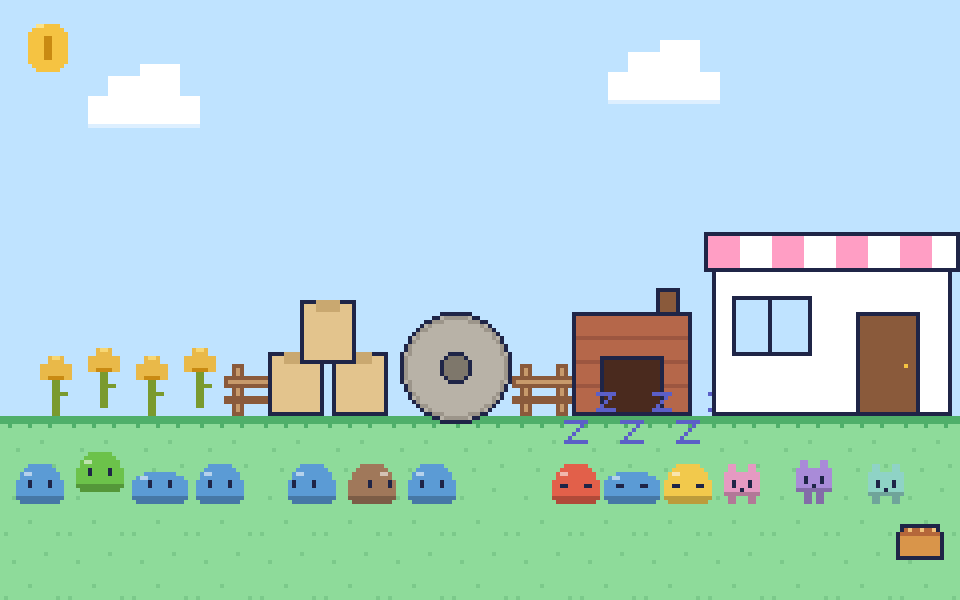
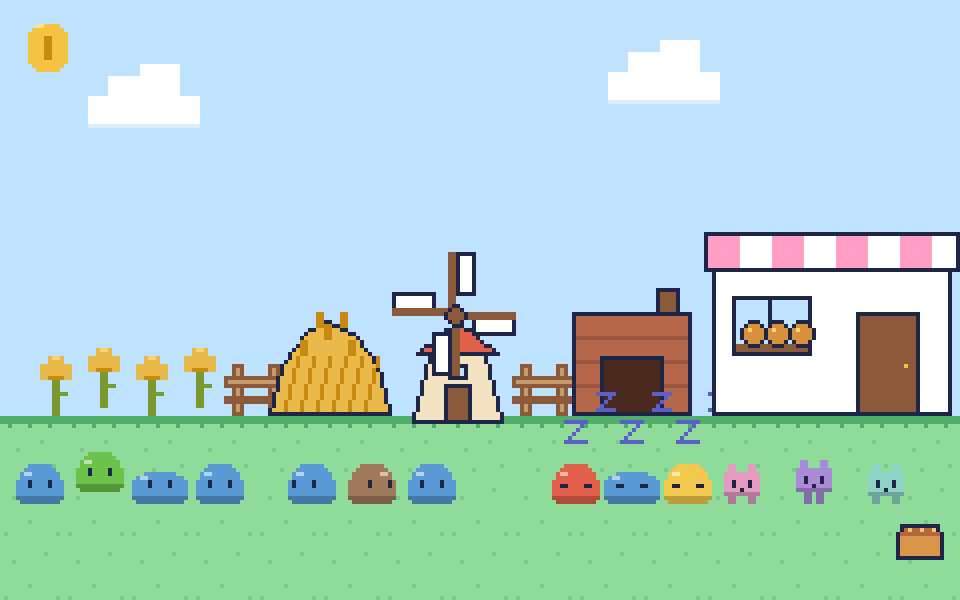
Windmill, wheat heap, flour sack and shop bread sprites; 5x2 slimes per zone; integer-scale responsive layout; bigger fonts
Claude-Session: https://claude.ai/code/session_01WfTTNQnN7G532o3jo6Gttq

Changed region(s): [[0.2812, 0.42, 0.5625, 0.72], [0.75, 0.51, 0.875, 0.6]]

diff --git a/index.html b/index.html
@@ -13,7 +13,7 @@
     --sky:#BFE3FF; --grass:#8EDB9A; --grass-line:#4FAF6A; --bar:#6FA8FF; --warn:#F08A24; --warn-line:#D9661A;
   }
   * { box-sizing:border-box; }
-  body { margin:0; background:var(--bg); color:var(--ink); font:16px/1.2 m5x7,monospace; image-rendering:pixelated; }
+  body { margin:0; background:var(--bg); color:var(--ink); font:32px/1.1 m5x7,monospace; image-rendering:pixelated; }
   img, .spr { image-rendering:pixelated; }
   h1, h2, .title { font-family:kenpixel,m5x7,monospace; margin:0; }
   .num { font-family:monogram,monospace; }
@@ -21,79 +21,88 @@
   .box { background:var(--panel); border:4px solid var(--ink); box-shadow:4px 4px 0 var(--ink); }
 
   /* buttons: primary = pink, 3px frame, press = shadow gone + 4px down */
-  button { font:inherit; font-size:16px; color:var(--ink); background:var(--bg); border:3px solid var(--ink); min-height:44px; padding:6px 14px; cursor:pointer; }
+  button { font:inherit; font-size:32px; color:var(--ink); background:var(--bg); border:3px solid var(--ink); min-height:48px; padding:4px 14px; cursor:pointer; }
   button.primary { background:var(--primary); border-width:4px; box-shadow:4px 4px 0 var(--ink); font-size:32px; }
   button.primary:active:not(:disabled) { box-shadow:0 0 0 var(--ink); transform:translate(4px,4px); }
   button:disabled { opacity:.45; cursor:not-allowed; }
 
   header { display:flex; align-items:center; flex-wrap:wrap; gap:16px 24px; padding:10px 18px; }
-  header h1 { font-size:32px; letter-spacing:1px; }
+  header h1 { font-size:40px; letter-spacing:1px; }
   .coin { display:flex; align-items:center; gap:8px; }
-  #coins { font-size:32px; }
-  #income { background:var(--income); border:3px solid var(--ink); padding:4px 12px; font-size:16px; }
+  #coins { font-size:48px; }
+  #income { background:var(--income); border:3px solid var(--ink); padding:2px 12px; font-size:32px; }
   .spacer { margin-left:auto; display:flex; gap:10px; }
 
-  /* sprites: slimes.png 144x80 (9x5 of 16px), shown x3; items/props/customers/shop scaled by integers too */
+  /* pixel art is sized in --u (an integer number of px per art pixel): 3 on desktop, 2 on small screens; never fractional */
+  :root { --u:3px; --i:2px; }
+  @media (max-width:1099px) { :root { --u:2px; } }
   .sprite { background-repeat:no-repeat; flex:none; }
+  .slime { --w:calc(16*var(--u)); width:var(--w); height:var(--w); margin:calc(-3*var(--u)) 0; background-image:url(/original/slimes.png); background-size:calc(144*var(--u)) calc(80*var(--u)); background-position-y:calc(var(--row,0) * -16 * var(--u)); }
   .slime, .sleeper { display:inline-block; }
-  .slime { width:48px; height:48px; background-image:url(/original/slimes.png); background-size:432px 240px; background-position-y:calc(var(--row,0) * -48px); }
   .a-idle { animation:idle 1s step-end infinite; }
   .a-hop { animation:hop .5s step-end infinite; }
   .a-sleep { animation:sleep 1.33s step-end infinite; }
   .a-spin { animation:spin .67s step-end infinite; }
-  @keyframes idle { 0%{background-position-x:0} 75%{background-position-x:-48px} }
-  @keyframes hop { 0%{background-position-x:-96px} 20%{background-position-x:-144px} 40%{background-position-x:-192px} 60%{background-position-x:-144px} 80%{background-position-x:0} }
-  @keyframes sleep { 0%{background-position-x:-240px} 50%{background-position-x:-288px} }
-  @keyframes spin { 0%{background-position-x:-336px} 25%{background-position-x:0} 50%{background-position-x:-384px} 75%{background-position-x:0} }
-  .item { width:32px; height:32px; background-image:url(/original/items.png); background-size:160px 32px; }
-  .prop { width:96px; height:96px; background-image:url(/original/props.png); background-size:480px 96px; }
+  @keyframes idle { 0%{background-position-x:0} 75%{background-position-x:calc(-16*var(--u))} }
+  @keyframes hop { 0%{background-position-x:calc(-32*var(--u))} 20%{background-position-x:calc(-48*var(--u))} 40%{background-position-x:calc(-64*var(--u))} 60%{background-position-x:calc(-48*var(--u))} 80%{background-position-x:0} }
+  @keyframes sleep { 0%{background-position-x:calc(-80*var(--u))} 50%{background-position-x:calc(-96*var(--u))} }
+  @keyframes spin { 0%{background-position-x:calc(-112*var(--u))} 25%{background-position-x:0} 50%{background-position-x:calc(-128*var(--u))} 75%{background-position-x:0} }
+  .item { width:calc(16*var(--i)); height:calc(16*var(--i)); background-image:url(/original/items.png); background-size:calc(80*var(--i)) calc(16*var(--i)); }
+  /* props.png frames (32px): 0 windmill, 1 blades+, 2 blades x, 3 oven, 4 oven lit, 5 wheat pile, 6 flour sack, 7 cloud */
+  .prop { width:calc(32*var(--u)); height:calc(32*var(--u)); background-image:url(/original/props.png); background-size:calc(256*var(--u)) calc(32*var(--u)); background-position-x:calc(var(--f) * -32 * var(--u)); }
+  #wheat-pile > .prop + .prop, #flours > .prop + .prop { margin-left:calc(-12*var(--u)); }
+  .p-windmill { --f:0; } .p-oven { --f:3; } .p-wheat { --f:5; } .p-flour { --f:6; }
+  .p-oven.baking { animation:oven 1s step-end infinite; }
+  @keyframes oven { 0%{background-position-x:calc(-96*var(--u))} 50%{background-position-x:calc(-128*var(--u))} }
 
-  #scene { position:relative; height:330px; overflow:hidden; background:var(--sky) var(--sky-tile) 0 0/32px 32px; display:grid; grid-template-columns:repeat(4,minmax(0,1fr)); }
-  #scene .ground { position:absolute; inset:auto 0 0 0; height:110px; background:var(--grass) var(--grass-tile) 0 0/32px 32px; }
-  #scene .ground::before { content:""; position:absolute; inset:0 0 auto 0; height:32px; background:var(--grass-top-tile) 0 0/32px 32px repeat-x; }
-  .cloud { position:absolute; width:64px; height:64px; background:url(/original/props.png) -256px 0/320px 64px; animation:drift 60s linear infinite; }
+  #scene { position:relative; overflow:hidden; background:var(--sky) var(--sky-tile) 0 0/calc(16*var(--u)) calc(16*var(--u)); display:grid; grid-template-columns:repeat(4,minmax(0,1fr)); }
+  @media (max-width:759px) { #scene { grid-template-columns:repeat(2,minmax(0,1fr)); } }
+  .cloud { position:absolute; width:calc(32*var(--i)); height:calc(32*var(--i)); background:url(/original/props.png) calc(-7*32*var(--i)) 0/calc(256*var(--i)) calc(32*var(--i)); animation:drift 60s linear infinite; }
   @keyframes drift { from{transform:translateX(-80px)} to{transform:translateX(1400px)} }
-  .zone { position:relative; display:flex; flex-direction:column; align-items:center; padding-top:14px; }
-  .zone + .zone::before { content:""; position:absolute; left:-16px; bottom:78px; width:32px; height:32px; background:var(--fence-tile) 0 0/32px 32px; }
-  .zone .label { background:var(--panel); border:3px solid var(--ink); padding:2px 10px; font-size:16px; font-family:kenpixel,monospace; z-index:2; }
-  .zone .actors { position:absolute; bottom:24px; display:flex; gap:0; align-items:flex-end; flex-wrap:wrap; justify-content:center; max-width:100%; z-index:1; }
-  .zone .actors .more { font:16px monogram,monospace; background:var(--panel); border:3px solid var(--ink); padding:0 6px; align-self:center; }
+  .zone { position:relative; height:calc(110*var(--u)); display:flex; flex-direction:column; align-items:center; padding-top:10px; }
+  .zone::after { content:""; position:absolute; inset:auto 0 0 0; height:calc(36*var(--u)); z-index:0;
+    background:var(--grass-top-tile) 0 0/calc(16*var(--u)) calc(16*var(--u)) repeat-x, var(--grass-tile) 0 0/calc(16*var(--u)) calc(16*var(--u)), var(--grass); }
+  .zone + .zone::before { content:""; position:absolute; left:calc(-8*var(--u)); bottom:calc(26*var(--u)); width:calc(16*var(--u)); height:calc(16*var(--u)); background:var(--fence-tile) 0 0/calc(16*var(--u)) calc(16*var(--u)); z-index:1; }
+  .zone .label { background:var(--panel); border:3px solid var(--ink); padding:0 10px; font-size:24px; font-family:kenpixel,monospace; z-index:3; }
+  .zone .actors { position:absolute; bottom:calc(4*var(--u)); width:calc(80*var(--u)); display:flex; flex-wrap:wrap; justify-content:center; z-index:2; }
+  .zone .actors .more { position:absolute; right:0; top:calc(-6*var(--u)); font:32px monogram,monospace; background:var(--panel); border:3px solid var(--ink); padding:0 6px; }
   .sleeper { position:relative; }
-  .zzz { position:absolute; left:20px; top:-10px; animation:float 2.4s linear infinite; }
+  .zzz { position:absolute; left:calc(8*var(--u)); top:calc(-2*var(--u)); animation:float 2.4s linear infinite; }
   @keyframes float { 0%{opacity:0;transform:translateY(0)} 40%{opacity:1} 100%{opacity:0;transform:translateY(-16px)} }
-  .props { position:absolute; bottom:86px; display:flex; align-items:flex-end; gap:8px; z-index:0; }
+  .props { position:absolute; bottom:calc(28*var(--u)); display:flex; align-items:flex-end; gap:calc(4*var(--u)); z-index:1; }
   .wheat { animation:pop 1.2s steps(3) infinite; }
   @keyframes pop { 0%,100%{transform:translateY(0)} 50%{transform:translateY(-8px)} }
-  .millstone { animation:turn 4s steps(4) infinite; }
-  @keyframes turn { to { transform:rotate(360deg); } } /* 90deg steps only: other angles resample the pixels and shimmer */
-  .oven-baking { animation:oven 1s step-end infinite; }
-  @keyframes oven { 0%{background-position-x:-96px} 50%{background-position-x:-192px} }
-  .shop-img { width:192px; height:144px; background:url(/original/shop.png) 0 0/192px 144px; position:absolute; bottom:86px; right:0; }
-  .cust { position:absolute; bottom:70px; left:100%; width:48px; height:48px; background:url(/original/customers.png) 0 calc(var(--row,0) * -48px)/96px 192px; animation:step .5s step-end infinite, approach 9s linear infinite; z-index:1; }
-  @keyframes step { 0%{background-position-x:0} 50%{background-position-x:-48px} }
+  .windmill { position:relative; width:calc(32*var(--u)); height:calc(32*var(--u)); }
+  .windmill .prop { position:absolute; left:0; top:0; }
+  .windmill .blades { --f:1; top:calc(-5*var(--u)); }
+  .windmill.working .blades { animation:blades 1s step-end infinite; } /* two frames (+ then x): no pixel rotation, no shimmer */
+  @keyframes blades { 0%{background-position-x:calc(-32*var(--u))} 50%{background-position-x:calc(-64*var(--u))} }
+  .shop-img { width:calc(64*var(--u)); height:calc(48*var(--u)); background:url(/original/shop.png) 0 0/calc(64*var(--u)) calc(48*var(--u)); position:absolute; bottom:calc(28*var(--u)); right:0; z-index:1; }
+  .cust { position:absolute; bottom:calc(22*var(--u)); left:100%; width:calc(16*var(--u)); height:calc(16*var(--u)); background:url(/original/customers.png) 0 calc(var(--row,0) * -16 * var(--u))/calc(32*var(--u)) calc(64*var(--u)); animation:step .5s step-end infinite, approach 9s linear infinite; z-index:2; }
+  @keyframes step { 0%{background-position-x:0} 50%{background-position-x:calc(-16*var(--u))} }
   @keyframes approach { 0%{left:100%;opacity:1} 80%{left:64%;opacity:1} 81%,100%{left:64%;opacity:0} }
-  .float { position:absolute; font:32px monogram,monospace; color:var(--ink); animation:rise 1.1s linear forwards; z-index:3; display:flex; align-items:center; }
+  .float { position:absolute; font:32px monogram,monospace; color:var(--ink); animation:rise 1.1s linear forwards; z-index:4; display:flex; align-items:center; }
   @keyframes rise { from{transform:translateY(0);opacity:1} to{transform:translateY(-48px);opacity:0} }
 
   #stations { display:grid; grid-template-columns:repeat(auto-fit,minmax(260px,1fr)); gap:16px; }
   .card { padding:14px 16px; display:flex; flex-direction:column; gap:8px; }
   .card.warn { border-color:var(--warn-line); }
-  .card .top { display:flex; justify-content:space-between; align-items:baseline; }
-  .card h2 { font-size:32px; }
+  .card .top { display:flex; justify-content:space-between; align-items:baseline; flex-wrap:wrap; gap:0 12px; }
+  .card h2 { font-size:40px; }
   .card .row { display:flex; justify-content:space-between; color:var(--ink2); }
   .bar { height:14px; background:#E1E5F7; border:3px solid var(--ink); }
   .bar i { display:block; height:100%; background:var(--bar); }
   .card.warn .bar i { background:var(--warn); }
   .card .btns { display:flex; gap:8px; margin-top:4px; }
-  .card .btns button { width:48px; padding:0; font-size:32px; }
-  .card .btns .primary { flex:1; width:auto; font-size:16px; border-width:3px; box-shadow:none; }
+  .card .btns button { width:48px; padding:0; font-size:40px; }
+  .card .btns .primary { flex:1; width:auto; font-size:32px; border-width:3px; box-shadow:none; }
 
   #bottom { display:flex; gap:16px; flex-wrap:wrap; }
   #lounge { flex:1; min-width:260px; padding:10px 16px; display:flex; align-items:center; gap:20px; }
   #lounge .slimes { margin-left:auto; display:flex; align-items:flex-end; }
   #buy { width:300px; max-width:100%; display:flex; flex-direction:column; align-items:center; gap:2px; font-family:kenpixel,monospace; }
-  #buy small { font:16px m5x7,monospace; }
-  dialog { border:4px solid var(--ink); background:var(--panel); color:var(--ink); max-width:560px; font-size:16px; line-height:1.4; }
+  #buy small { font:32px m5x7,monospace; }
+  dialog { border:4px solid var(--ink); background:var(--panel); color:var(--ink); max-width:560px; font-size:32px; line-height:1.2; }
   dialog::backdrop { background:rgba(31,37,71,.5); }
 </style>
 </head>
@@ -108,7 +117,7 @@
   <section id="scene" class="box" aria-label="Bakery scene"></section>
   <section id="stations"></section>
   <section id="bottom">
-    <div id="lounge" class="box"><div><h2 style="font-size:32px">LOUNGE</h2><div style="color:var(--ink2)">New slimes wait here. Tap + on a station to assign.</div></div><div class="slimes" id="lounge-slimes"></div></div>
+    <div id="lounge" class="box"><div><h2 style="font-size:40px">LOUNGE</h2><div style="color:var(--ink2)">New slimes wait here. Tap + on a station to assign.</div></div><div class="slimes" id="lounge-slimes"></div></div>
     <button id="buy" class="primary"><span>BUY SLIME</span><small id="buy-cost"></small></button>
   </section>
 </main>

diff --git a/src/game/main.ts b/src/game/main.ts
@@ -6,7 +6,7 @@ const NAME: Record<StationId, string> = { farm: 'FARM', mill: 'MILL', bakery: 'B
 const OUT: Record<StationId, string> = { farm: 'wheat', mill: 'flour', bakery: 'bread' };
 const IN: Record<StationId, string> = { farm: '', mill: 'wheat', bakery: 'flour' };
 const SECONDS = { farm: 1, mill: 3, bakery: 5 };
-const MAX_DRAWN = 8; // per zone; the rest shows as "+N"
+const MAX_DRAWN = 10; // per zone: 5 per row, 2 rows; the rest shows as "+N"
 const $ = (id: string) => document.getElementById(id)!;
 const store = {
   get: (k: string) => { try { return localStorage.getItem(k); } catch { return null; } },
@@ -61,6 +61,16 @@ try {
   }
 } catch { /* corrupt save: start fresh */ }
 
+// dev only (stripped from builds): ?demo=farm,mill,bakery,lounge seeds a state for screenshots, e.g. ?demo=12,3,6,2
+const demo = import.meta.env.DEV ? new URLSearchParams(location.search).get('demo') : null;
+if (demo) {
+  const [f, m, b, l] = demo.split(',').map(Number);
+  s = newState({ farm: f, mill: m, bakery: b });
+  s.coins = 1e6;
+  for (let i = 0; i < l; i++) buySlime(s);
+  s.coins = 20;
+}
+
 const t0 = Date.now();
 emit?.('session_start', t0, { offline_seconds: offlineSeconds, is_new_player: isNew });
 if (offlineSeconds && offlineSeconds > 5) {
@@ -76,11 +86,10 @@ const item = (i: number, extra = '') => `<span class="item sprite ${extra}" styl
 const zone = (id: StationId, props: string, extra = '') =>
   `<div class="zone"><div class="label">${NAME[id]}</div><div class="props">${props}</div>${extra}<div class="actors" id="actors-${id}"></div></div>`;
 $('scene').innerHTML =
-  '<div class="ground"></div>' +
   '<div class="cloud" style="top:18px"></div><div class="cloud" style="top:56px;animation-delay:-30s"></div>' +
   zone('farm', Array.from({ length: 5 }, (_, i) => item(0, 'wheat').replace('class="', `style="animation-delay:-${i * 0.25}s" class="`)).join('')) +
-  zone('mill', '<div id="sacks" style="display:flex"></div><div class="prop sprite millstone" style="background-position:0 0"></div>') +
-  zone('bakery', '<div class="prop sprite" id="oven"></div>') +
+  zone('mill', '<div id="wheat-pile" style="display:flex"></div><div class="windmill" id="windmill"><span class="prop sprite p-windmill"></span><span class="prop sprite blades"></span></div>') +
+  zone('bakery', '<span class="prop sprite p-oven" id="oven"></span><div id="flours" style="display:flex"></div>') +
   `<div class="zone"><div class="label">SHOP</div><div class="shop-img sprite"></div>${[0, 1, 2].map((i) => `<div class="cust sprite" style="--row:${i};animation-delay:0s,-${i * 3}s"></div>`).join('')}<div id="shop-fx"></div></div>`;
 for (const c of document.querySelectorAll<HTMLElement>('.cust')) {
   c.addEventListener('animationiteration', (e) => { if ((e as AnimationEvent).animationName === 'approach') c.style.setProperty('--row', String(Math.floor(Math.random() * 4))); }); // random colour per visit; UI-only randomness
@@ -135,9 +144,10 @@ document.querySelectorAll<HTMLButtonElement>('[data-plus],[data-minus],[data-up]
 // --- render ---
 const keys = new Map<string, string>();
 const setHtml = (id: string, key: string, html: string) => { if (keys.get(id) !== key) { keys.set(id, key); $(id).innerHTML = html; } };
-const colourRow = (id: string) => [...id].reduce((h, c) => (h * 31 + c.charCodeAt(0)) >>> 0, 7) % 5; // stable per slime
+// colour follows the job: lounge blue, farm green (leafy), mill brown (rocky), bakery red (fiery); cosmetic in M1
+const ROW: Record<string, number> = { lounge: 0, farm: 1, mill: 2, bakery: 3 };
 const slimeEl = (sl: Slime, anim: string, i: number, zzz = false) =>
-  `<span class="${zzz ? 'sleeper' : ''}"><span class="slime sprite a-${anim}" style="--row:${colourRow(sl.id)};animation-delay:-${(i * 0.17).toFixed(2)}s"></span>${zzz ? `<span class="zzz">${item(4)}</span>` : ''}</span>`;
+  `<span class="${zzz ? 'sleeper' : ''}"><span class="slime sprite a-${anim}" style="--row:${ROW[sl.station ?? 'lounge']};animation-delay:-${(i * 0.17).toFixed(2)}s"></span>${zzz ? `<span class="zzz">${item(4)}</span>` : ''}</span>`;
 const crowd = (list: Slime[], anim: string, zzz = false) =>
   list.slice(0, MAX_DRAWN).map((sl, i) => slimeEl(sl, anim, i, zzz)).join('') + (list.length > MAX_DRAWN ? `<span class="more">+${list.length - MAX_DRAWN}</span>` : '');
 const here = (where: StationId | null) => s.slimes.filter((x) => x.station === where);
@@ -173,12 +183,13 @@ function render() {
     const list = here(id);
     setHtml(`actors-${id}`, keyOf(list, anim), crowd(list, anim, starved));
   }
-  // props that reflect production state
-  const mill = s.stations.mill.stock;
-  const sacks = mill < 10 ? 1 : mill < 30 ? 2 : 3; // never 0: a vanishing prop flickers
-  setHtml('sacks', `${sacks}`, '<span class="prop sprite" style="background-position:-288px 0"></span>'.repeat(sacks));
-  $('oven').className = `prop sprite${s.stations.bakery.stock >= 2 && count(s, 'bakery') > 0 ? ' oven-baking' : ''}`;
-  $('oven').style.backgroundPositionX = '-96px';
+  // props that reflect production state: wheat heap = mill queue, flour sacks = bakery queue, blades/oven animate while working
+  const pile = (stock: number) => (stock < 20 ? 1 : 2); // 1-2 only (they overlap) so the props stay inside their zone; never 0, a vanishing prop flickers
+  const heap = pile(s.stations.mill.stock), sacks = pile(s.stations.bakery.stock);
+  setHtml('wheat-pile', `${heap}`, '<span class="prop sprite p-wheat"></span>'.repeat(heap));
+  setHtml('flours', `${sacks}`, '<span class="prop sprite p-flour"></span>'.repeat(sacks));
+  $('windmill').classList.toggle('working', s.stations.mill.stock >= 2 && count(s, 'mill') > 0);
+  $('oven').classList.toggle('baking', s.stations.bakery.stock >= 2 && count(s, 'bakery') > 0);
 
   if (s.bread > lastBread) { // sale feedback: floating "+10" and a coin sound
     const fx = document.createElement('div');

diff --git a/tools/sprites/make_sprites.py b/tools/sprites/make_sprites.py
@@ -218,12 +218,59 @@ sheet(items_row, 16, 16).save(OUT / "items.png")
 # ---------- props (32x32) ----------
 
 
-def prop_millstone():
+def prop_windmill():
+    """Tower + red roof; the blades are a separate prop so they can turn."""
     img = Image.new("RGBA", (32, 32), (0, 0, 0, 0))
     d = ImageDraw.Draw(img)
-    d.ellipse([2, 4, 29, 31], fill=hx("#B8B2A7"), outline=hx(INK))
-    d.ellipse([3, 5, 28, 30], outline=hx("#9C958A"))
-    d.ellipse([12, 14, 19, 21], fill=hx("#7E776B"), outline=hx(INK))
+    d.polygon([(9, 14), (23, 14), (27, 31), (5, 31)], fill=hx("#F3E3C3"), outline=hx(INK))
+    d.polygon([(6, 14), (26, 14), (16, 6)], fill=hx("#E2604A"), outline=hx(INK))
+    d.rectangle([13, 22, 19, 31], fill=hx("#8A5A3B"), outline=hx(INK))
+    d.rectangle([14, 17, 18, 20], fill=hx("#BFE3FF"), outline=hx(INK))
+    return img
+
+
+def prop_blades(angle):
+    """Four sails on a cross, drawn with the hub at the sprite centre. angle 0 = '+', 45 = 'x'."""
+    import math
+    img = Image.new("RGBA", (32, 32), (0, 0, 0, 0))
+    d = ImageDraw.Draw(img)
+    c = 15.5
+    for k in range(4):
+        a = math.radians(angle + 90 * k)
+        dx, dy = math.cos(a), math.sin(a)
+        px, py = -dy, dx
+        pt = lambda t, o: (c + dx * t + px * o, c + dy * t + py * o)
+        d.polygon([pt(5, 1), pt(15, 1), pt(15, 5), pt(5, 5)], fill=hx("#FFFFFF"), outline=hx(INK))
+        d.line([pt(0, 0), pt(15, 0)], fill=hx("#8A5A3B"), width=2)
+    d.ellipse([13, 13, 18, 18], fill=hx("#8A5A3B"), outline=hx(INK))
+    return img
+
+
+def prop_wheat_pile():
+    """Golden heap of wheat: the mill's input queue."""
+    img = Image.new("RGBA", (32, 32), (0, 0, 0, 0))
+    d = ImageDraw.Draw(img)
+    d.polygon([(1, 31), (4, 19), (10, 11), (16, 8), (22, 11), (28, 19), (31, 31)], fill=hx("#E9B949"), outline=hx(INK))
+    for x in range(5, 28, 4):
+        d.line([(x, 30), (x + 3, 17)], fill=hx("#C98A12"))
+    for x, y in ((9, 13), (15, 9), (21, 13), (13, 6), (19, 6)):  # ears sticking out
+        d.rectangle([x, y, x + 1, y + 3], fill=hx("#F7D774"), outline=hx("#C98A12"))
+    return img
+
+
+def prop_flour_sack():
+    """Cloth sack with a tied neck and an F: the mill's output, the bakery's input."""
+    img = Image.new("RGBA", (32, 32), (0, 0, 0, 0))
+    d = ImageDraw.Draw(img)
+    d.polygon([(6, 13), (26, 13), (29, 22), (27, 31), (5, 31), (3, 22)], fill=hx("#F4EFE6"), outline=hx(INK))
+    d.polygon([(24, 15), (27, 22), (25, 30), (22, 30), (24, 22)], fill=hx("#D8CFBE"))
+    d.polygon([(11, 13), (21, 13), (20, 8), (12, 8)], fill=hx("#F4EFE6"), outline=hx(INK))
+    d.rectangle([10, 5, 21, 8], fill=hx("#F4EFE6"), outline=hx(INK))  # gathered cloth above the tie
+    d.rectangle([11, 12, 20, 13], fill=hx("#8A5A3B"))  # rope
+    f = hx("#E2604A")
+    d.rectangle([12, 18, 13, 27], fill=f)  # the F
+    d.rectangle([12, 18, 19, 19], fill=f)
+    d.rectangle([12, 22, 17, 23], fill=f)
     return img
 
 
@@ -240,15 +287,6 @@ def prop_oven(lit):
     return img
 
 
-def prop_sacks():
-    img = Image.new("RGBA", (32, 32), (0, 0, 0, 0))
-    d = ImageDraw.Draw(img)
-    for (x0, y0, x1, y1) in ((1, 16, 14, 31), (17, 16, 30, 31), (9, 3, 22, 18)):
-        d.rectangle([x0, y0, x1, y1], fill=hx("#E3C48D"), outline=hx(INK))
-        d.rectangle([x0 + 4, y0, x1 - 4, y0 + 2], fill=hx("#C9A870"))
-    return img
-
-
 def prop_cloud():
     img = Image.new("RGBA", (32, 32), (0, 0, 0, 0))
     d = ImageDraw.Draw(img)
@@ -260,12 +298,14 @@ def prop_cloud():
     return img
 
 
-PROPS = {"millstone": prop_millstone(), "oven": prop_oven(False), "oven_lit": prop_oven(True),
-         "sacks": prop_sacks(), "cloud": prop_cloud()}
+PROPS = {"windmill": prop_windmill(), "blades_plus": prop_blades(0), "blades_x": prop_blades(45),
+         "oven": prop_oven(False), "oven_lit": prop_oven(True), "wheat_pile": prop_wheat_pile(),
+         "flour_sack": prop_flour_sack(), "cloud": prop_cloud()}
 props_row = [list(PROPS.values())]
 sheet(props_row, 32, 32).save(OUT / "props.png")
 pmeta = atlas("props", props_row, [""], list(PROPS), 32, 32,
-              {"oven_baking": {"frames": ["oven", "oven_lit"], "fps": 2, "repeat": -1}})
+              {"oven_baking": {"frames": ["oven", "oven_lit"], "fps": 2, "repeat": -1},
+               "blades_turn": {"frames": ["blades_plus", "blades_x"], "fps": 2, "repeat": -1}})
 (OUT / "props.json").write_text(json.dumps(pmeta, indent=2))
 
 # ---------- shop front (64x48) ----------
@@ -278,6 +318,10 @@ for i in range(8):
 d.rectangle([0, 2, 63, 11], outline=hx(INK))
 d.rectangle([7, 18, 26, 32], fill=hx("#BFE3FF"), outline=hx(INK))
 d.line([16, 18, 16, 32], fill=hx(INK))
+d.rectangle([8, 30, 25, 31], fill=hx("#8A5A3B"))  # shelf
+for x in (9, 15, 21):  # loaves on display
+    d.ellipse([x, 24, x + 6, 30], fill=hx("#D9923B"), outline=hx(INK))
+    d.point((x + 2, 26), fill=hx("#F7D774"))
 d.rectangle([38, 22, 53, 47], fill=hx("#8A5A3B"), outline=hx(INK))
 d.point((50, 35), fill=hx("#F5C342"))
 shop.save(OUT / "shop.png")

diff --git a/tools/sprites/make_preview.py b/tools/sprites/make_preview.py
@@ -44,7 +44,7 @@ cust = Image.open(SRC / "customers.png")
 items = Image.open(SRC / "items.png")
 shop = Image.open(SRC / "shop.png")
 sky, grass_top, grass, fence = (frame(tiles, 16, 16, i, 0) for i in range(4))
-mill, oven, oven_lit, sacks, cloud = (frame(props, 32, 32, i, 0) for i in range(5))
+windmill, blades, _bx, oven, oven_lit, sacks, fsack, cloud = (frame(props, 32, 32, i, 0) for i in range(8))
 wheat, flour, bread, coin, zzz = (frame(items, 16, 16, i, 0) for i in range(5))
 meta = json.loads((SRC / "slimes.json").read_text())
 names = list(meta["frames"])
@@ -74,7 +74,8 @@ for i, (row, fr) in enumerate(((0, "idle_0"), (1, "hop_air"), (0, "hop_squash"),
 sc.alpha_composite(fence, (56, GROUND - 16))
 # mill
 sc.alpha_composite(sacks, (66, GROUND - 32))
-sc.alpha_composite(mill, (98, GROUND - 30))
+sc.alpha_composite(windmill, (98, GROUND - 30))
+sc.alpha_composite(blades, (98, GROUND - 41))
 for i, (row, fr) in enumerate(((0, "spin_left"), (2, "spin_right"), (0, "idle_0"))):
     sc.alpha_composite(slime(row, fr), (70 + i * 15, GROUND + 6))
 sc.alpha_composite(fence, (128, GROUND - 16))

diff --git a/CLAUDE.md b/CLAUDE.md
@@ -69,7 +69,7 @@ npm run bots -- --bots 20 --seconds 600 --url http://localhost:3000/events   # o
 - `src/events/` — zod `GameEvent` schema (single source of truth) + `makeEmitter` (stamps shared fields, UUID v7; caller passes `now`).
 - `src/bots/` — `runBot` (personas: random_assigner, optimizer, quitter) and CLI with duplicate/malformed fault injection.
 - `src/collector/` — Fastify `POST /events`; `route()` sends invalid events to `events.dlq`.
-- `src/game/main.ts` + `index.html` — plain DOM + CSS-sprite UI (no Phaser), localStorage save + offline progress. Scene is built once; render() only touches what changed, otherwise CSS animations restart. Sprite sheets are scaled by integers (slimes x3; sheet rows = colour, columns = frames, see `assets/original/*.json`). Slime colour is cosmetic in M1 (hash of slime id).
+- `src/game/main.ts` + `index.html` — plain DOM + CSS-sprite UI (no Phaser), localStorage save + offline progress. Scene is built once; render() only touches what changed, otherwise CSS animations restart. Sprite sheets are scaled by integers (slimes x3; sheet rows = colour, columns = frames, see `assets/original/*.json`). Slime colour follows the job (cosmetic in M1). Art is sized in `--u` (3px desktop, 2px below 1100px), integer only; `?demo=farm,mill,bakery,lounge` seeds a state in dev for screenshots.
 - `assets/` is Vite's `publicDir`: served at `/original`, `/fonts`, `/audio`.
 - `tools/sprites/` — sprite generator scripts.
 
